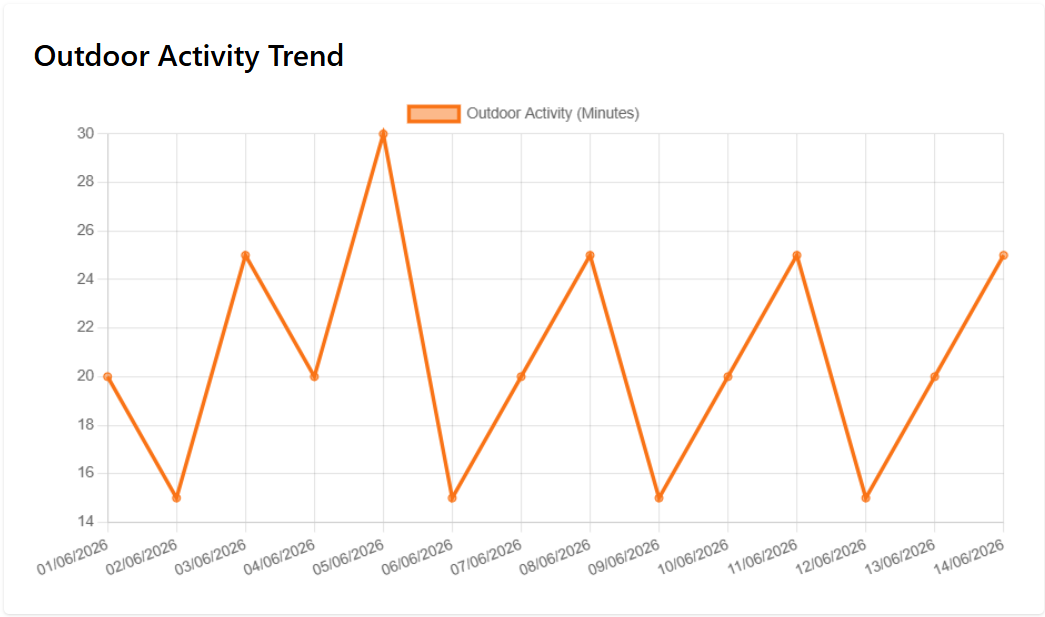
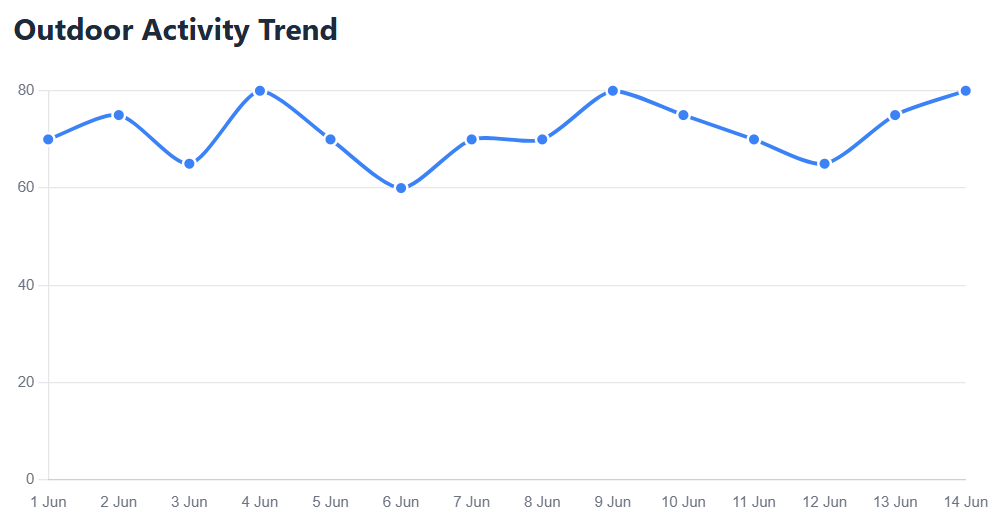
refactor: enhance landing page dashboard preview

diff --git a/frontend/src/components/landing/DashboardPreview.jsx b/frontend/src/components/landing/DashboardPreview.jsx
@@ -1,146 +1,133 @@
-import dashboardImg from "../../assets/screenshots/dashboard.png";
-import recommendationImg from "../../assets/screenshots/recommendations.png";
-import screenTimeImg from "../../assets/screenshots/screen-time-chart.png";
-import sleepImg from "../../assets/screenshots/sleep-chart.png";
+import addChildImg from "../../assets/screenshots/add-child.png";
+import dashboardAnalyticsImg from "../../assets/screenshots/dashboard-analytics.png";
+
+import wellnessAnalysisImg from "../../assets/screenshots/wellness-analysis.png";
+
 import outdoorImg from "../../assets/screenshots/outdoor-chart.png";
+import screenTimeImg from "../../assets/screenshots/screen-time-chart.png";
+import sleepImg from "../../assets/screenshots/sleep-trend-chart.png";
 
 const DashboardPreview = () => {
   return (
-    <section className="py-20 bg-white">
+    <section className="py-24 bg-white">
       <div className="max-w-7xl mx-auto px-6">
+        {/* Parent Dashboard */}
+        <div className="mb-24">
+          <div className="text-center mb-12">
+            <h2 className="text-4xl font-bold text-gray-900">Parent Dashboard</h2>
 
-        {/* Section Heading */}
-        <div className="text-center mb-12">
-          <h2 className="text-4xl font-bold text-gray-900">
-            Dashboard Preview
-          </h2>
+            <p className="mt-4 text-lg text-gray-600 max-w-3xl mx-auto">
+              Manage child profiles, monitor wellness insights, and keep track of important health
+              metrics through a centralized dashboard.
+            </p>
+          </div>
 
-          <p className="mt-4 text-lg text-gray-600 max-w-3xl mx-auto">
-            Monitor wellness habits, identify potential concerns,
-            and help children develop healthier routines through
-            actionable insights and personalized recommendations.
-          </p>
+          <div className="grid md:grid-cols-2 gap-8">
+            {/* Add Child */}
+            <div className="bg-white rounded-3xl shadow-xl overflow-hidden">
+              <img src={addChildImg} alt="Child Management" className="w-full" />
+
+              <div className="p-5">
+                <h3 className="text-xl font-bold mb-2">Child Management</h3>
+
+                <p className="text-gray-600">
+                  Create and manage child profiles with essential information to begin wellness
+                  tracking.
+                </p>
+              </div>
+            </div>
+
+            {/* Dashboard Analytics */}
+            <div className="bg-white rounded-3xl shadow-xl overflow-hidden">
+              <img src={dashboardAnalyticsImg} alt="Dashboard Analytics" className="w-full" />
+
+              <div className="p-5">
+                <h3 className="text-xl font-bold mb-2">Dashboard Analytics</h3>
+
+                <p className="text-gray-600">
+                  View key wellness indicators, identify children requiring additional attention,
+                  and monitor overall family wellness.
+                </p>
+              </div>
+            </div>
+          </div>
         </div>
 
-        {/* Dashboard Screenshot */}
-        <div className="mb-20 bg-white rounded-3xl shadow-xl overflow-hidden">
-          <img
-            src={dashboardImg}
-            alt="Dashboard Preview"
-            className="w-full"
-          />
-        </div>
-
-        {/* Recommendation Section */}
-        <div className="grid md:grid-cols-2 gap-10 items-center">
-
+        {/* Wellness Analysis */}
+        <div className="grid md:grid-cols-2 gap-10 items-center mb-20">
           <div>
-            <h3 className="text-3xl font-bold mb-4">
-              Personalized Wellness Insights
-            </h3>
+            <h3 className="text-3xl font-bold mb-4">Personalized Wellness Analysis</h3>
 
             <p className="text-gray-600 mb-6">
-              Analyze screen time, sleep habits, and outdoor activity
-              levels to identify trends and provide meaningful
-              recommendations for healthier routines.
+              Analyze screen time, sleep habits, and outdoor activity levels to generate meaningful
+              wellness insights and personalized recommendations.
             </p>
 
             <ul className="space-y-3 text-lg">
               <li>✓ Wellness Score Analysis</li>
-              <li>✓ Risk Detection</li>
+              <li>✓ Risk Assessment</li>
               <li>✓ Personalized Recommendations</li>
-              <li>✓ Habit Monitoring</li>
+              <li>✓ Wellness Metrics</li>
             </ul>
           </div>
 
           <div className="bg-white rounded-3xl shadow-xl overflow-hidden">
-            <img
-              src={recommendationImg}
-              alt="Recommendations"
-              className="w-full"
-            />
+            <img src={wellnessAnalysisImg} alt="Wellness Analysis" className="w-full" />
           </div>
-
         </div>
 
         {/* Progress Tracking */}
         <div className="mt-24">
+          <div className="text-center mb-12">
+            <h3 className="text-3xl font-bold text-gray-900">Habit Tracking Trends</h3>
 
-        <div className="text-center mb-12">
-          <h3 className="text-3xl font-bold text-gray-900">
-            Track Healthy Habits Over Time
-          </h3>
-
-          <p className="mt-4 text-gray-600 max-w-3xl mx-auto">
-            Visualize screen time, sleep patterns, and outdoor activity
-            trends to better understand daily habits and encourage
-            long-term healthy routines.
-          </p>
-        </div>
-
-        <div className="grid md:grid-cols-3 gap-8">
-
-          {/* Screen Time */}
-          <div className="bg-white rounded-3xl shadow-xl overflow-hidden">
-            <img
-              src={screenTimeImg}
-              alt="Screen Time Tracking"
-              className="w-full"
-            />
-
-            <div className="p-5">
-              <h4 className="font-bold text-lg mb-2">
-                Screen Time Tracking
-              </h4>
-
-              <p className="text-gray-600 text-sm">
-                Monitor digital habits and identify excessive usage patterns.
-              </p>
-            </div>
+            <p className="mt-4 text-gray-600 max-w-3xl mx-auto">
+              Visualize screen time, sleep patterns, and outdoor activity trends to better
+              understand daily habits and encourage long-term healthy routines.
+            </p>
           </div>
 
-          {/* Sleep Tracking */}
-          <div className="bg-white rounded-3xl shadow-xl overflow-hidden">
-            <img
-              src={sleepImg}
-              alt="Sleep Tracking"
-              className="w-full"
-            />
+          <div className="grid md:grid-cols-3 gap-8">
+            {/* Screen Time */}
+            <div className="bg-white rounded-3xl shadow-xl overflow-hidden">
+              <img src={screenTimeImg} alt="Screen Time Tracking" className="w-full" />
 
-            <div className="p-5">
-              <h4 className="font-bold text-lg mb-2">
-                Sleep Monitoring
-              </h4>
+              <div className="p-5">
+                <h4 className="font-bold text-lg mb-2">Screen Time Tracking</h4>
 
-              <p className="text-gray-600 text-sm">
-                Observe sleep consistency and support healthier routines.
-              </p>
+                <p className="text-gray-600 text-sm">
+                  Monitor digital habits and identify excessive usage patterns.
+                </p>
+              </div>
+            </div>
+
+            {/* Sleep Tracking */}
+            <div className="bg-white rounded-3xl shadow-xl overflow-hidden">
+              <img src={sleepImg} alt="Sleep Tracking" className="w-full" />
+
+              <div className="p-5">
+                <h4 className="font-bold text-lg mb-2">Sleep Monitoring</h4>
+
+                <p className="text-gray-600 text-sm">
+                  Observe sleep consistency and support healthier routines.
+                </p>
+              </div>
+            </div>
+
+            {/* Outdoor Tracking */}
+            <div className="bg-white rounded-3xl shadow-xl overflow-hidden">
+              <img src={outdoorImg} alt="Outdoor Activity Tracking" className="w-full" />
+
+              <div className="p-5">
+                <h4 className="font-bold text-lg mb-2">Outdoor Activity Tracking</h4>
+
+                <p className="text-gray-600 text-sm">
+                  Encourage active lifestyles through regular outdoor engagement.
+                </p>
+              </div>
             </div>
           </div>
-
-          {/* Outdoor Tracking */}
-          <div className="bg-white rounded-3xl shadow-xl overflow-hidden">
-            <img
-              src={outdoorImg}
-              alt="Outdoor Activity Tracking"
-              className="w-full"
-            />
-
-            <div className="p-5">
-              <h4 className="font-bold text-lg mb-2">
-                Outdoor Activity Tracking
-              </h4>
-
-              <p className="text-gray-600 text-sm">
-                Encourage active lifestyles through regular outdoor engagement.
-              </p>
-            </div>
-          </div>
-
         </div>
-
-        </div>
-
       </div>
     </section>
   );

diff --git a/frontend/src/pages/ChildProfile.jsx b/frontend/src/pages/ChildProfile.jsx
@@ -77,7 +77,7 @@ const ChildProfile = () => {
 
   const [editingOutdoorId, setEditingOutdoorId] = useState(null);
 
-  const [recommendationData, setRecommendationData] = useState(false);
+  const [recommendationData, setRecommendationData] = useState(null);
 
   const [recommendationLoading, setRecommendationLoading] = useState(false);
 
@@ -212,9 +212,10 @@ const ChildProfile = () => {
         isEditing ? "Sleep record updated successfully!" : "Sleep record saved successfully!"
       );
 
-      console.log(response);
-
       await fetchSleepRecords();
+
+      setRecommendationData(null);
+      setRecommendationError("");
 
       setSleepData({
         date: "",
@@ -278,9 +279,10 @@ const ChildProfile = () => {
           : "Outdoor activity saved successfully!"
       );
 
-      console.log(response);
-
       await fetchOutdoorActivities();
+
+      setRecommendationData(null);
+      setRecommendationError("");
 
       setOutdoorData({
         date: "",
@@ -337,9 +339,9 @@ const ChildProfile = () => {
         isEditing ? "Screen time updated successfully!" : "Screen time saved successfully!"
       );
 
-      console.log(response);
-
       await fetchScreenTimes();
+      setRecommendationData(null);
+      setRecommendationError("");
 
       setScreenTimeData({
         date: "",
@@ -359,8 +361,6 @@ const ChildProfile = () => {
     try {
       const data = await getChildById(id);
 
-      console.log(data);
-
       setChild(data.child);
     } catch (error) {
       console.error(error);
@@ -370,8 +370,6 @@ const ChildProfile = () => {
   const fetchScreenTimes = async () => {
     try {
       const data = await getScreenTimes(id);
-
-      console.log(data);
 
       setScreenTimes(data.screenTimes);
     } catch (error) {
@@ -383,8 +381,6 @@ const ChildProfile = () => {
     try {
       const data = await getSleepRecords(id);
 
-      console.log(data);
-
       setSleepRecords(data.sleepRecords);
     } catch (error) {
       console.error(error);
@@ -394,8 +390,6 @@ const ChildProfile = () => {
   const fetchOutdoorActivities = async () => {
     try {
       const data = await getOutdoorActivities(id);
-
-      console.log(data);
 
       setOutdoorActivities(data.activities);
     } catch (error) {
@@ -431,7 +425,9 @@ const ChildProfile = () => {
   if (!child) {
     return (
       <div className="max-w-4xl mx-auto p-8">
-        <h1>Loading...</h1>
+        <div className="bg-white rounded-2xl shadow-md border border-gray-100 p-10 text-center">
+          <p className="text-lg text-gray-600">Loading child profile...</p>
+        </div>
       </div>
     );
   }
@@ -1293,7 +1289,11 @@ const ChildProfile = () => {
           disabled={recommendationLoading}
           className="bg-green-600 hover:enabled:bg-green-700 text-white font-semibold px-8 py-3 rounded-xl transition-all duration-300 cursor-pointer disabled:opacity-60 disabled:cursor-not-allowed"
         >
-          {recommendationLoading ? "Analyzing..." : "Analyze Wellness"}
+          {recommendationLoading
+            ? "Analyzing..."
+            : recommendationData
+              ? "Reanalyze Wellness"
+              : "Analyze Wellness"}
         </button>
 
         {recommendationError && (
@@ -1308,7 +1308,7 @@ const ChildProfile = () => {
           </div>
         )}
 
-        {!recommendationData ? (
+        {!recommendationData && (
           <div className="mt-8 bg-gray-50 border border-gray-200 rounded-2xl p-8 text-center">
             <p className="text-lg font-semibold text-gray-700">No wellness analysis available.</p>
 
@@ -1316,10 +1316,6 @@ const ChildProfile = () => {
               Click <strong>Analyze Wellness</strong> to receive personalized recommendations based
               on your child's wellness data.
             </p>
-          </div>
-        ) : (
-          <div className="mt-6 bg-red-50 border border-red-200 rounded-2xl p-5">
-            <p className="text-red-700 font-medium">{recommendationError}</p>
           </div>
         )}
 
